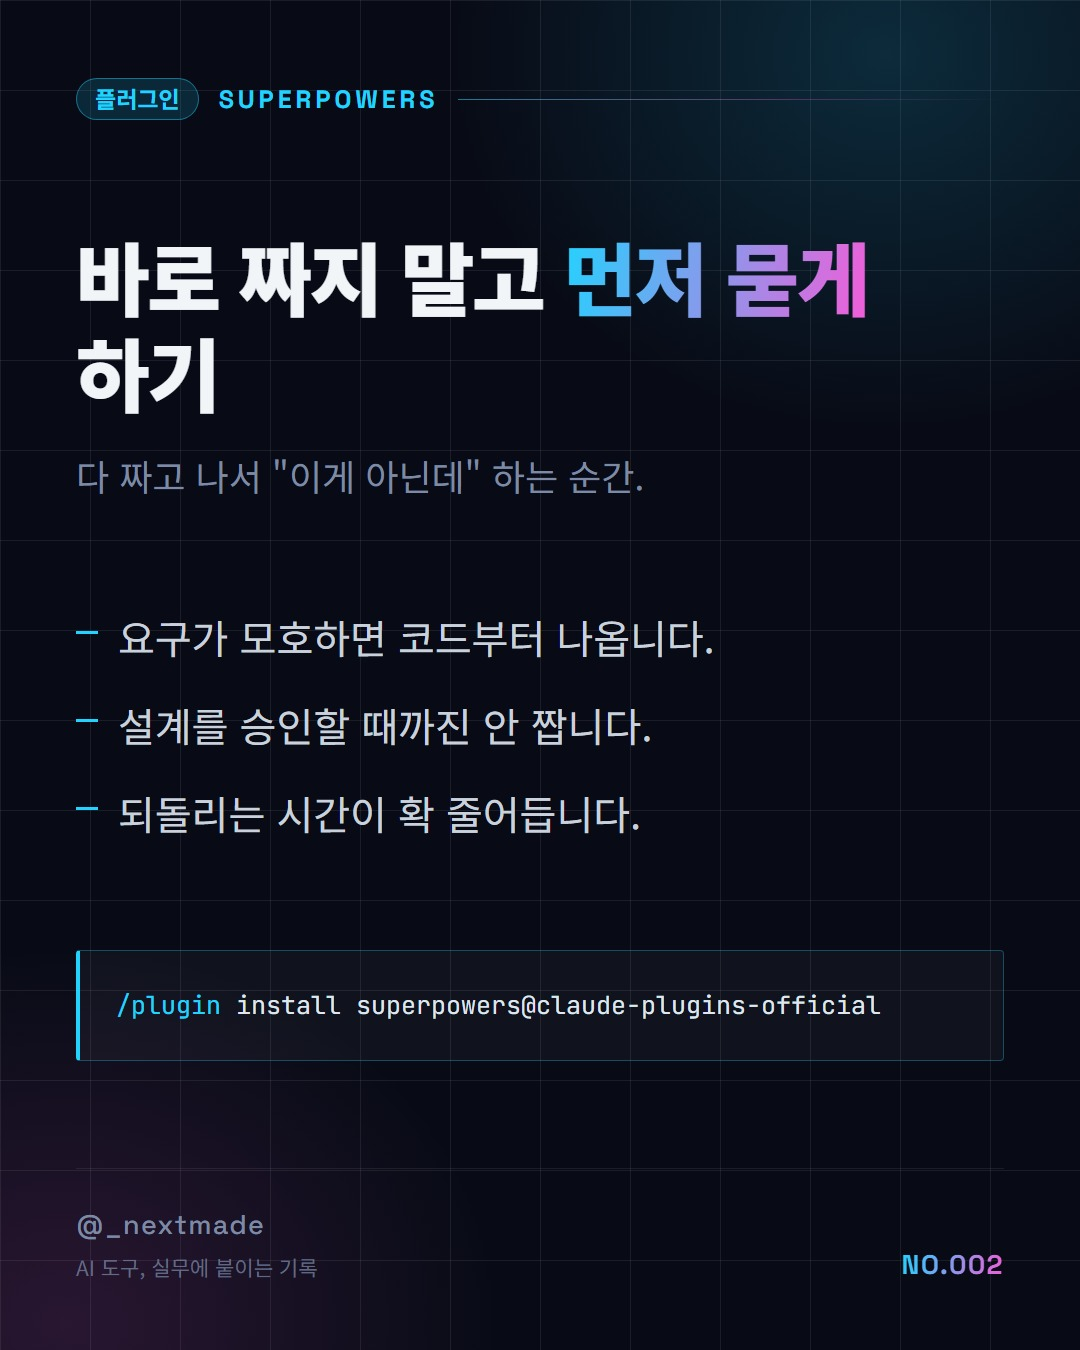
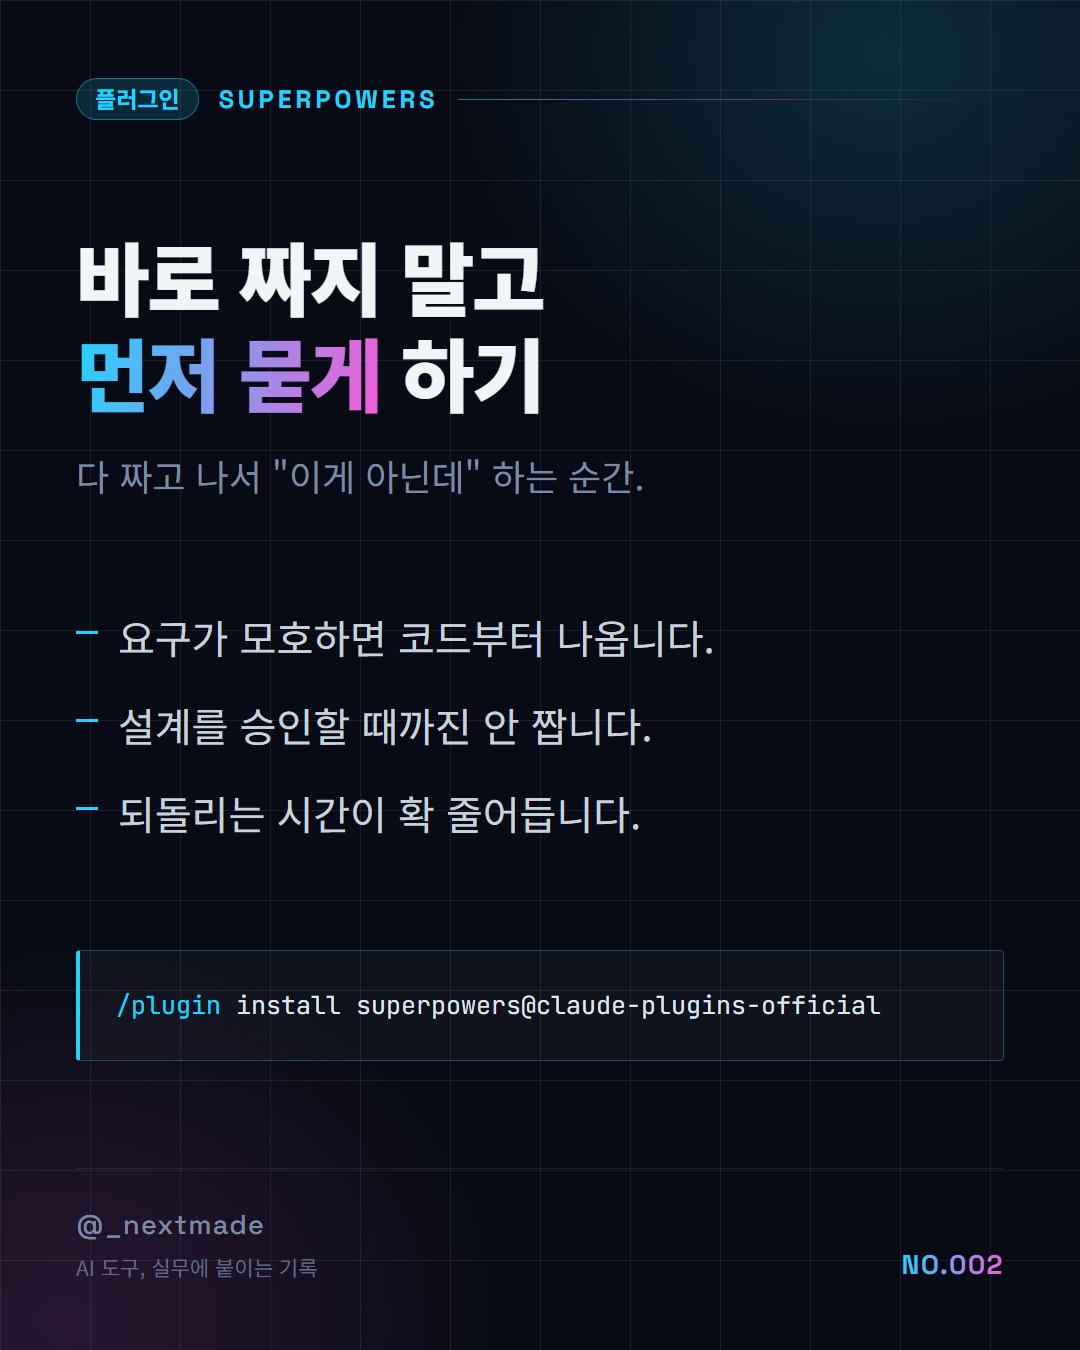
Control line breaks in titles and captions
제목에서 마지막 줄에 두 글자만 남는 문제. '바로 짜지 말고 먼저 묻게 하기'가
'하기' 만 둘째 줄로 떨어졌다. 자동 줄바꿈에 맡기지 않고 끊을 위치를 직접 정한다.

- title 의 줄바꿈 문자를 <br> 로 치환. <em> 과 함께 허용되는 유일한 서식.
- 큐에서 12자를 넘는 제목 3장에 줄바꿈 지정
- 스키마에 '마지막 줄에 두세 글자만 남으면 안 된다' 명시

캡션은 문장마다 개행한다. 인스타는 폭이 좁아 문장을 이어 쓰면 덩어리로
보이고 읽히지 않는다. 기존 캡션 2장과 큐 4장에 적용하고 caption_spec 에 규칙 추가.

Claude-Session: https://claude.ai/code/session_01Pgi9qNzz7ty1zwrrXg3EnP

Changed region(s): [[0.0611, 0.2489, 0.5194, 0.3111], [0.5194, 0.1556, 0.825, 0.2489]]

diff --git a/insta/post.py b/insta/post.py
@@ -42,7 +42,7 @@ SCHEMA = {
             "description": "카드 최상단 타입 배지. 새 값을 만들지 말 것.",
         },
         "kicker": {"type": "string", "description": "타입 배지 옆 이름. 스킬·플러그인이면 그 이름, 아니면 영문 대문자 라벨 1~3단어."},
-        "title": {"type": "string", "description": "카드 대제목. 한국어 18자 이내. 강조할 부분은 <em>로 감쌀 것."},
+        "title": {"type": "string", "description": "카드 대제목. 한국어 18자 이내. 강조는 <em>로 감싼다. 12자가 넘으면 줄바꿈 문자로 끊을 위치를 직접 정할 것. 마지막 줄에 두세 글자만 남으면 안 된다."},
         "lead": {"type": "string", "description": "제목 아래 한 줄. 이게 없을 때 뭐가 괴로운지. 32자 이내."},
         "points": {
             "type": "array",
@@ -145,8 +145,11 @@ def write_copy(recent_topics: list[str], index: int) -> dict:
 
 def fill_template(copy: dict, index: int) -> str:
     points = "".join(f"<li>{html.escape(p)}</li>" for p in copy["points"])
-    # title 만 <em> 태그를 허용 — 나머지는 이스케이프
-    title = html.escape(copy["title"]).replace("&lt;em&gt;", "<em>").replace("&lt;/em&gt;", "</em>")
+    # title 은 <em> 강조와 줄바꿈만 허용 — 나머지는 이스케이프.
+    # 줄바꿈 위치는 카드를 쓸 때 직접 정한다 (마지막 줄에 두세 글자만 남지 않게)
+    title = (html.escape(copy["title"])
+             .replace("&lt;em&gt;", "<em>").replace("&lt;/em&gt;", "</em>")
+             .replace("\n", "<br>"))
     # 명령어 블록: 슬래시로 시작하는 줄의 명령 부분만 액센트 색
     code = "\n".join(
         re.sub(r"^(/\S+)", r'<span class="p">\1</span>', html.escape(line))
@@ -162,7 +165,7 @@ def fill_template(copy: dict, index: int) -> str:
         "{{TYPE}}": html.escape(copy.get("type", "기본")),
         "{{KICKER}}": html.escape(copy["kicker"]),
         "{{TITLE}}": title,
-        "{{TITLE_CLASS}}": "long" if len(copy["title"].replace("<em>", "").replace("</em>", "")) > 18 else "",
+        "{{TITLE_CLASS}}": "long" if len(re.sub(r"</?em>|\n", "", copy["title"])) > 18 else "",
         "{{LEAD}}": html.escape(copy.get("lead", "")),
         "{{POINTS}}": points,
         "{{CODE}}": code,
